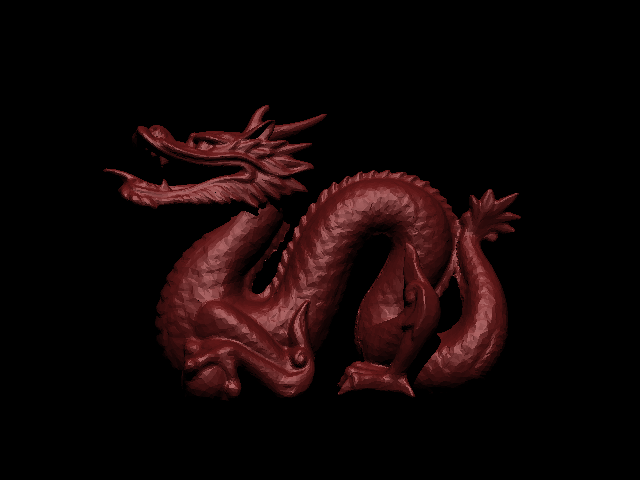
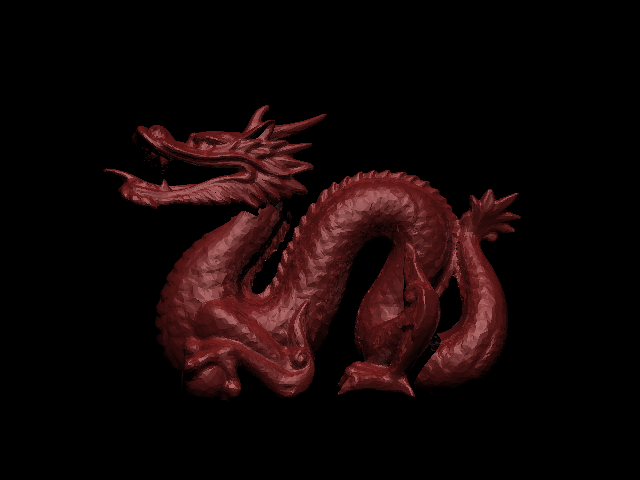
Chinese Dragon passing all tests

diff --git a/HW1/CPU_PathTracer/src/raytracer.cpp b/HW1/CPU_PathTracer/src/raytracer.cpp
@@ -454,7 +454,7 @@ int main() {
 	Scene* scene = new Scene();
 
 
-	std::ifstream file("C:/dev/CSE168x/HW1/CPU_PathTracer/Release/scene6.test");
+	std::ifstream file("C:/dev/CSE168x/HW1/CPU_PathTracer/Release/scene7.test");
 	std::string line;
 
 	while (std::getline(file, line))
